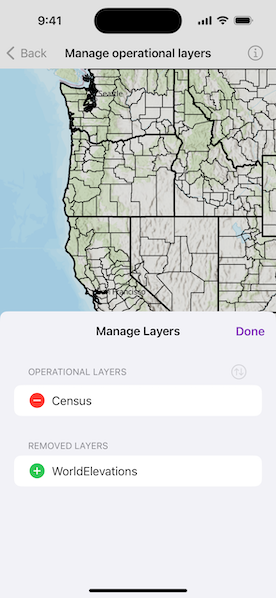
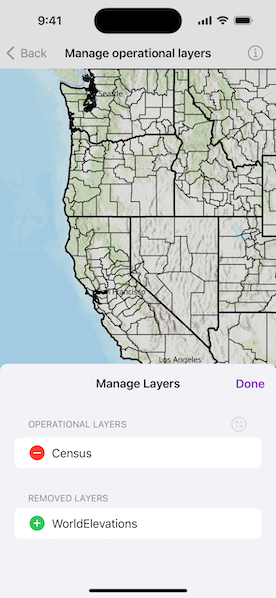
Update popover height.

Changed region(s): [[0.0, 0.5117, 1.0, 0.903]]

diff --git a/Shared/Samples/Manage operational layers/ManageOperationalLayersView.swift b/Shared/Samples/Manage operational layers/ManageOperationalLayersView.swift
@@ -58,8 +58,8 @@ struct ManageOperationalLayersView: View {
                                     }
                                 }
                         }
-                        .presentationDetents([.fraction(0.5)])
-                        .frame(idealWidth: 320, idealHeight: 360)
+                        .presentationDetents([.fraction(0.4)])
+                        .frame(idealWidth: 320, idealHeight: 260)
                     }
                 }
             }
